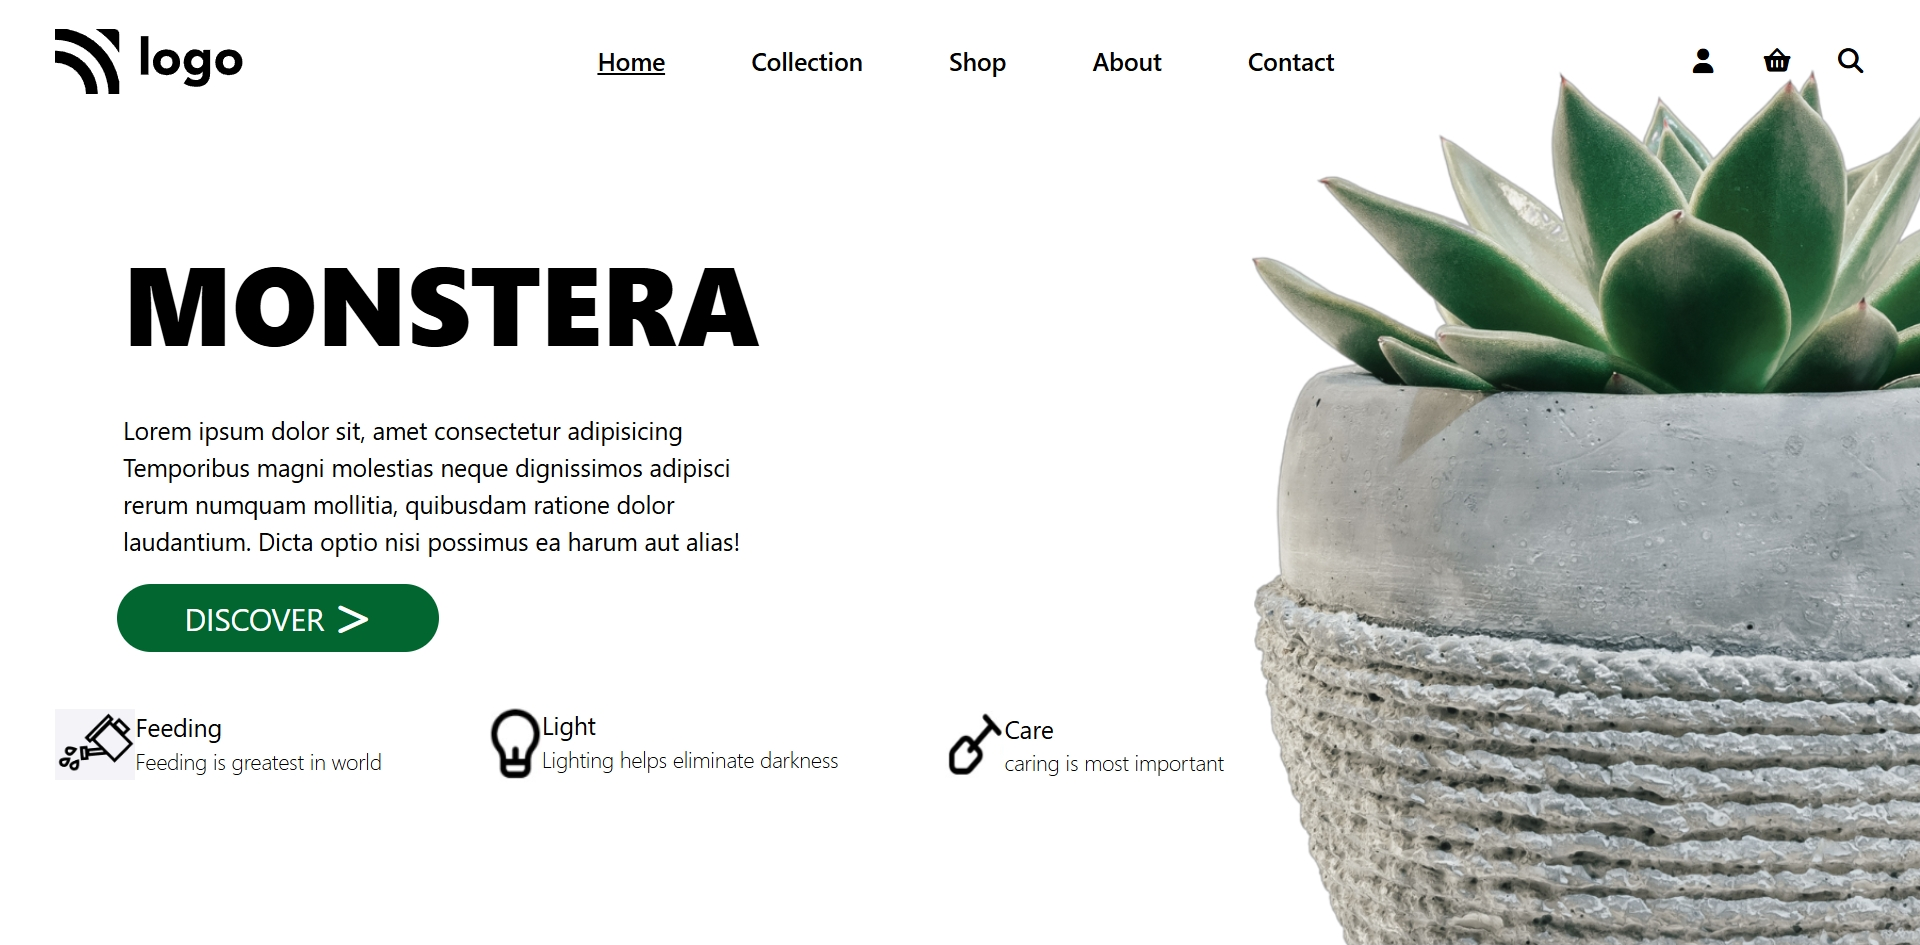
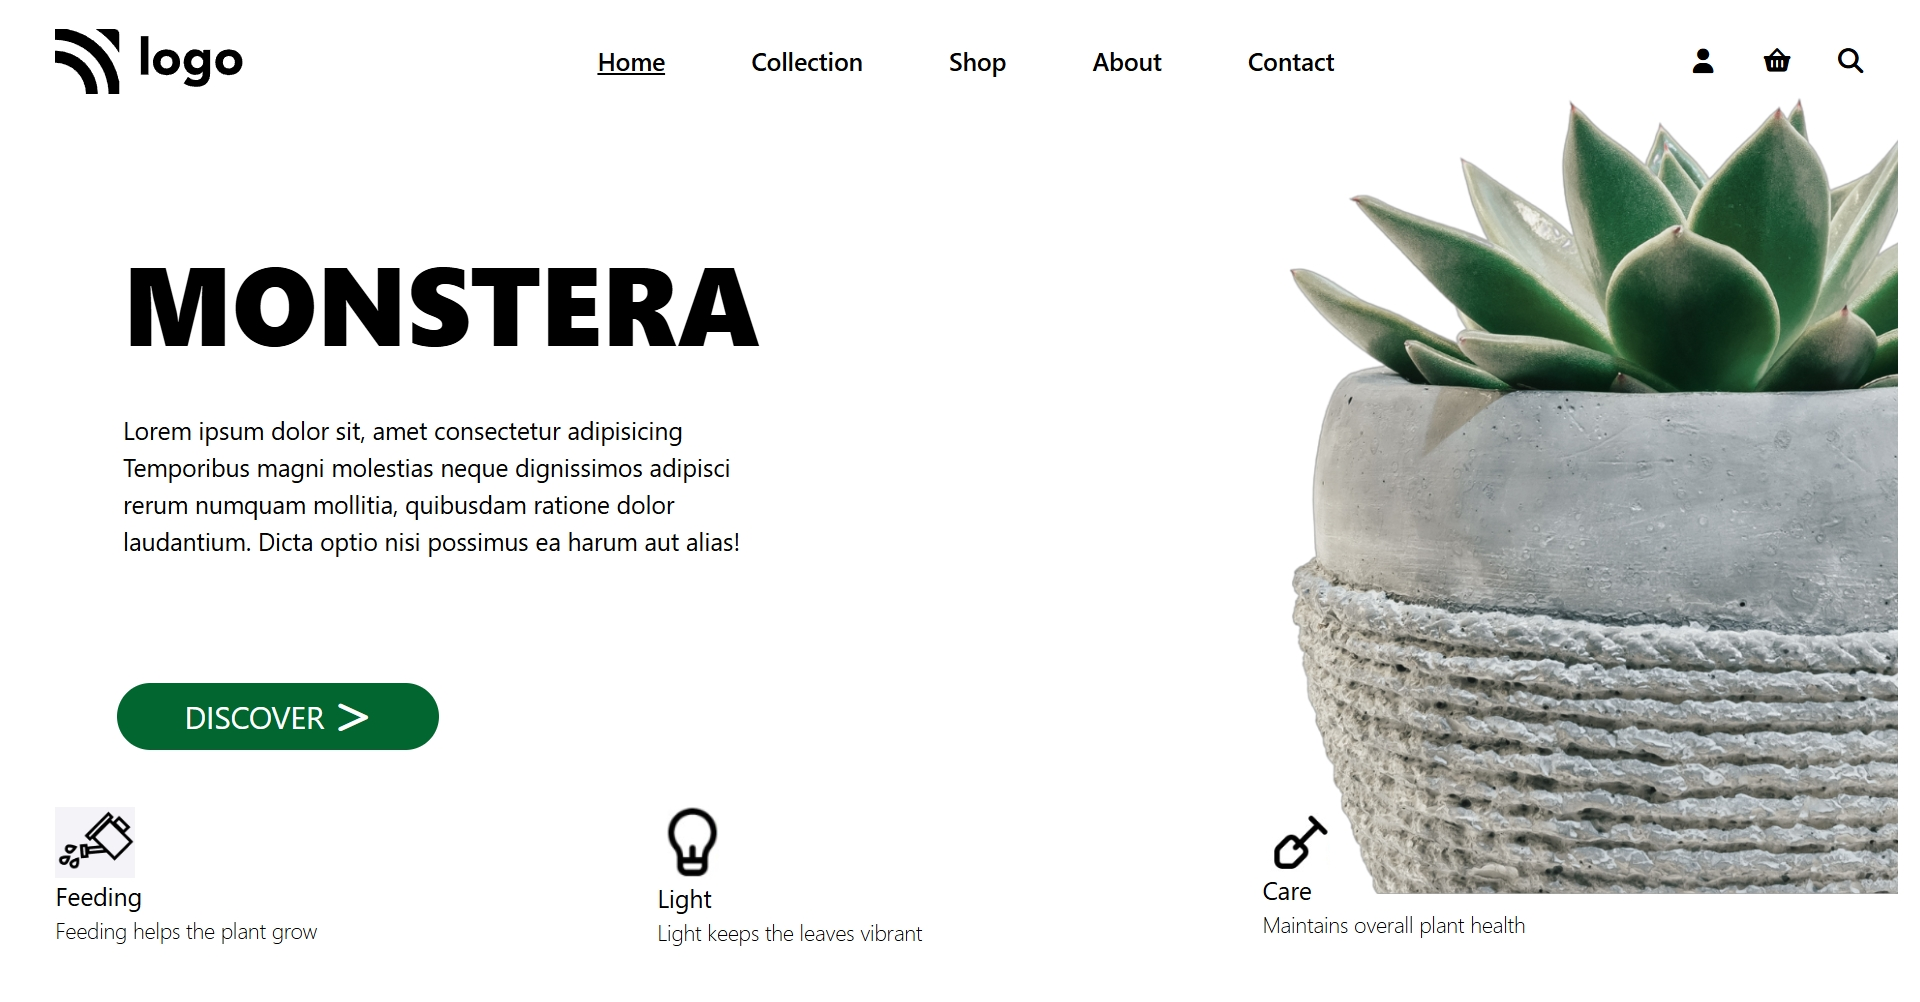
final commit

diff --git a/index.html b/index.html
@@ -16,18 +16,18 @@
         <nav class="flex items-center justify-between  h-20 pl-9 pr-9 ">
 
             <div>
-                <img src="Logo.svg" alt="logo">
+                <img class="" src="Logo.svg" alt="logo">
             </div>
 
             <div class="flex gap-14    ">
-                <span class="hover:text-stone-500 cursor-pointer font-semibold underline">Home</span>
-                <span class="hover:text-stone-500 cursor-pointer font-semibold">Collection</span>
-                <span class="hover:text-stone-500 cursor-pointer font-semibold">Shop</span>
-                <span class="hover:text-stone-500 cursor-pointer font-semibold">About</span>
-                <span class="hover:text-stone-500 cursor-pointer font-semibold">Contact</span>
+                <span class="hover:text-stone-500 cursor-pointer font-semibold underline hidden md:flex">Home</span>
+                <span class="hover:text-stone-500 cursor-pointer font-semibold hidden md:flex">Collection</span>
+                <span class="hover:text-stone-500 cursor-pointer font-semibold hidden md:flex ">Shop</span>
+                <span class="hover:text-stone-500 cursor-pointer font-semibold hidden md:flex ">About</span>
+                <span class="hover:text-stone-500 cursor-pointer font-semibold hidden md:flex ">Contact</span>
             </div>
 
-            <div class="flex gap-7 ">
+            <div class="flex gap-3 md:gap-7 ">
                 <i class=" hover:text-stone-500 cursor-pointer fa-solid fa-user"></i>
                 <i class=" hover:text-stone-500 cursor-pointer fa-solid fa-basket-shopping"></i>
                 <i class=" hover:text-stone-500 cursor-pointer fa-solid fa-magnifying-glass"></i>
@@ -36,9 +36,10 @@
 
         </nav>
 
-        <div class=" w-150 p-20 pb-4">
-            <h3 class="text-7xl font-black ">MONSTERA</h3>
-            <p class="mt-9">Lorem ipsum dolor sit, amet consectetur adipisicing <br> Temporibus magni molestias neque
+        <div class="  p-4 md:p-20 pb-4    ">
+            <h3 class="text-5xl md:text-7xl  font-black ">MONSTERA</h3>
+            <p class="mt-2 md:mt-9   ">Lorem ipsum dolor sit, amet consectetur adipisicing <br> Temporibus magni
+                molestias neque
                 dignissimos
                 adipisci <br>rerum numquam mollitia, quibusdam ratione dolor <br> laudantium. Dicta optio nisi possimus
                 ea
@@ -47,37 +48,44 @@
 
 
 
-        <button class="bg-green-800 rounded-full py-2   px-11 ml-19 text-xl  text-white font-normal">DISCOVER <i
-                class="fa-solid fa-greater-than"></i> </button>
+        <button
+            class="bg-green-800 rounded-full py-1 md:py-2   px-5 md:px-11 ml-5 md:ml-19 text-sm md:text-xl text-white font-normal cursor-pointer hover:text-gray-300">DISCOVER
+            <i class="fa-solid fa-greater-than"></i>
+        </button>
 
 
-        <div class=" w-190 m-9 flex items-center justify-between">
+        <div class="  m-9 flex  items-center justify-between ">
 
-            <div class="flex  "> <img src="water plant.png" alt="" class="w-13">
+            <div class="flex-grow "> <img src="water plant.png" alt="" class="w-13 cursor-pointer">
                 <div>Feeding <br>
-                    <p class="font-thin text-sm">Feeding is greatest in world</p>
+                    <p class="font-thin text-sm hidden md:flex">Feeding helps the plant grow</p>
                 </div>
             </div>
 
-            <div class=" flex"> <img src="bulb.png " alt="" class="w-10">
+            <div class=" flex-grow"> <img src="bulb.png " alt="" class="w-10 cursor-pointer">
                 <div>Light <br>
-                    <p class="font-thin text-sm">Lighting helps eliminate darkness</p>
+                    <p class="font-thin text-sm hidden md:flex">Light keeps the leaves vibrant</p>
                 </div>
             </div>
 
 
-            <div class="  flex"> <img src="showel.png" alt="" class="w-11">
+            <div class="  flex-grow"> <img src="showel.png" alt="" class="w-11 cursor-pointer">
                 <div>Care <br>
-                    <p class="font-thin text-sm">caring is most important</p>
+                    <p class="font-thin text-sm hidden md:flex">Maintains overall plant health</p>
                 </div>
             </div>
 
         </div>
 
 
-        <div>
+        <div class="hidden md:flex">
 
-            <div class="absolute right-0 bottom-0 w-109"><img src="03_flowerCut.png"> </div>
+            <div class="absolute right-0 bottom-0 w-99"><img src="03_flowerCut.png"> </div>
+
+        </div>
+
+        <div class="sm:flex md:hidden bg-gray-200 ">
+            <div class=""><img src="03_flower.png" alt="flower"></div>
         </div>
 
 
